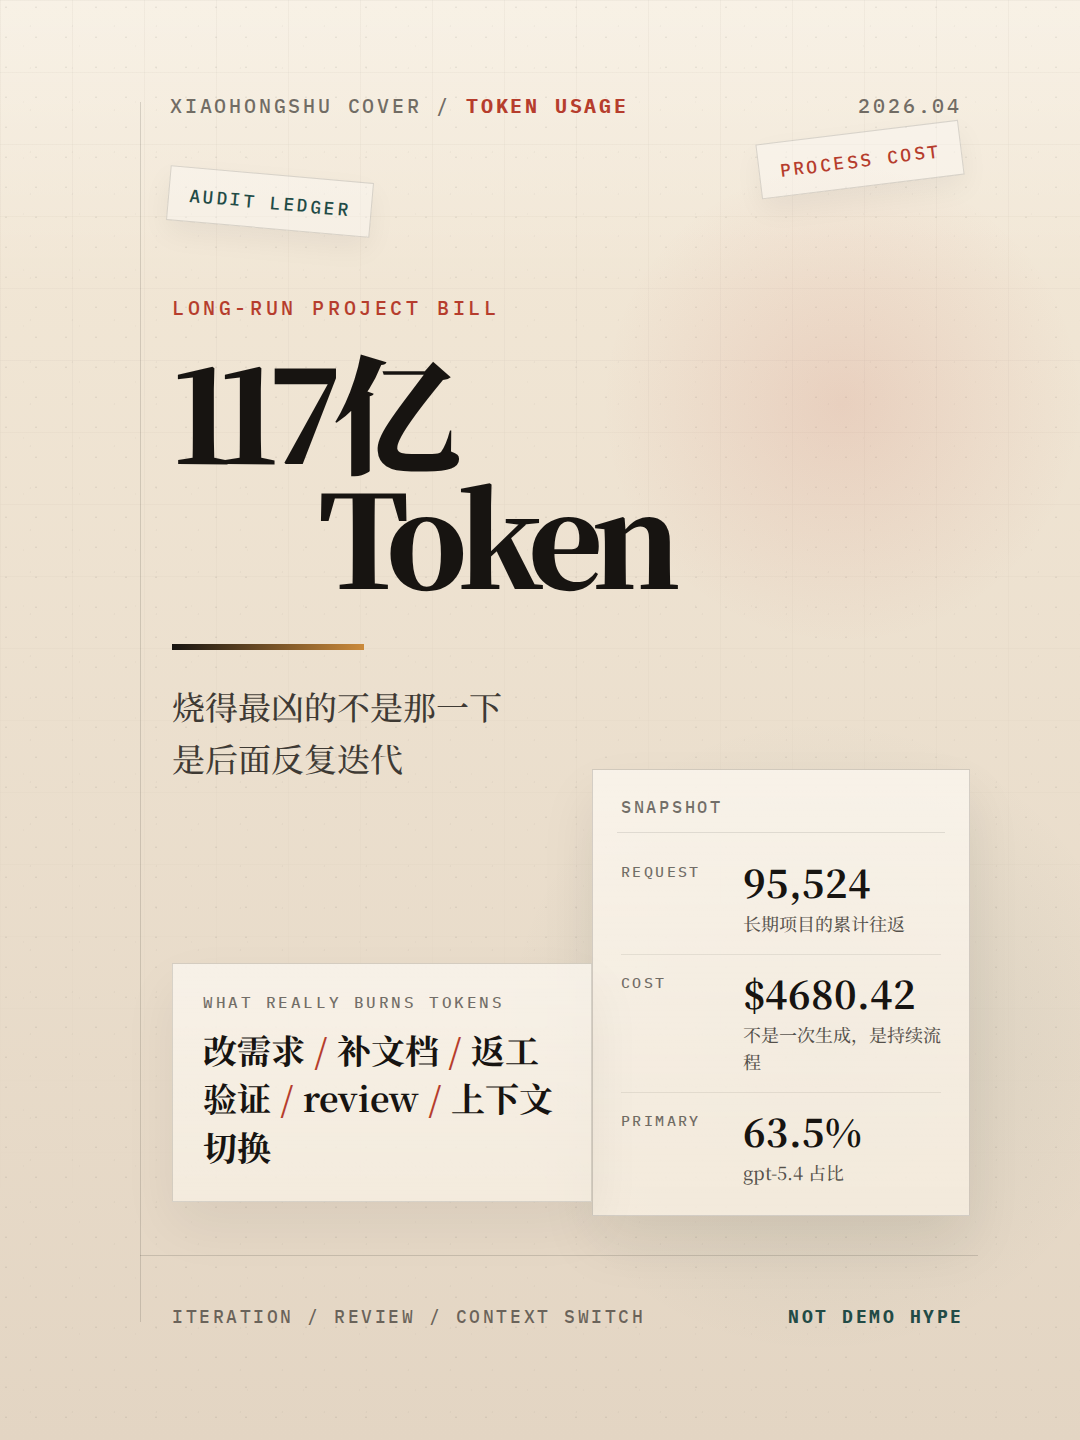
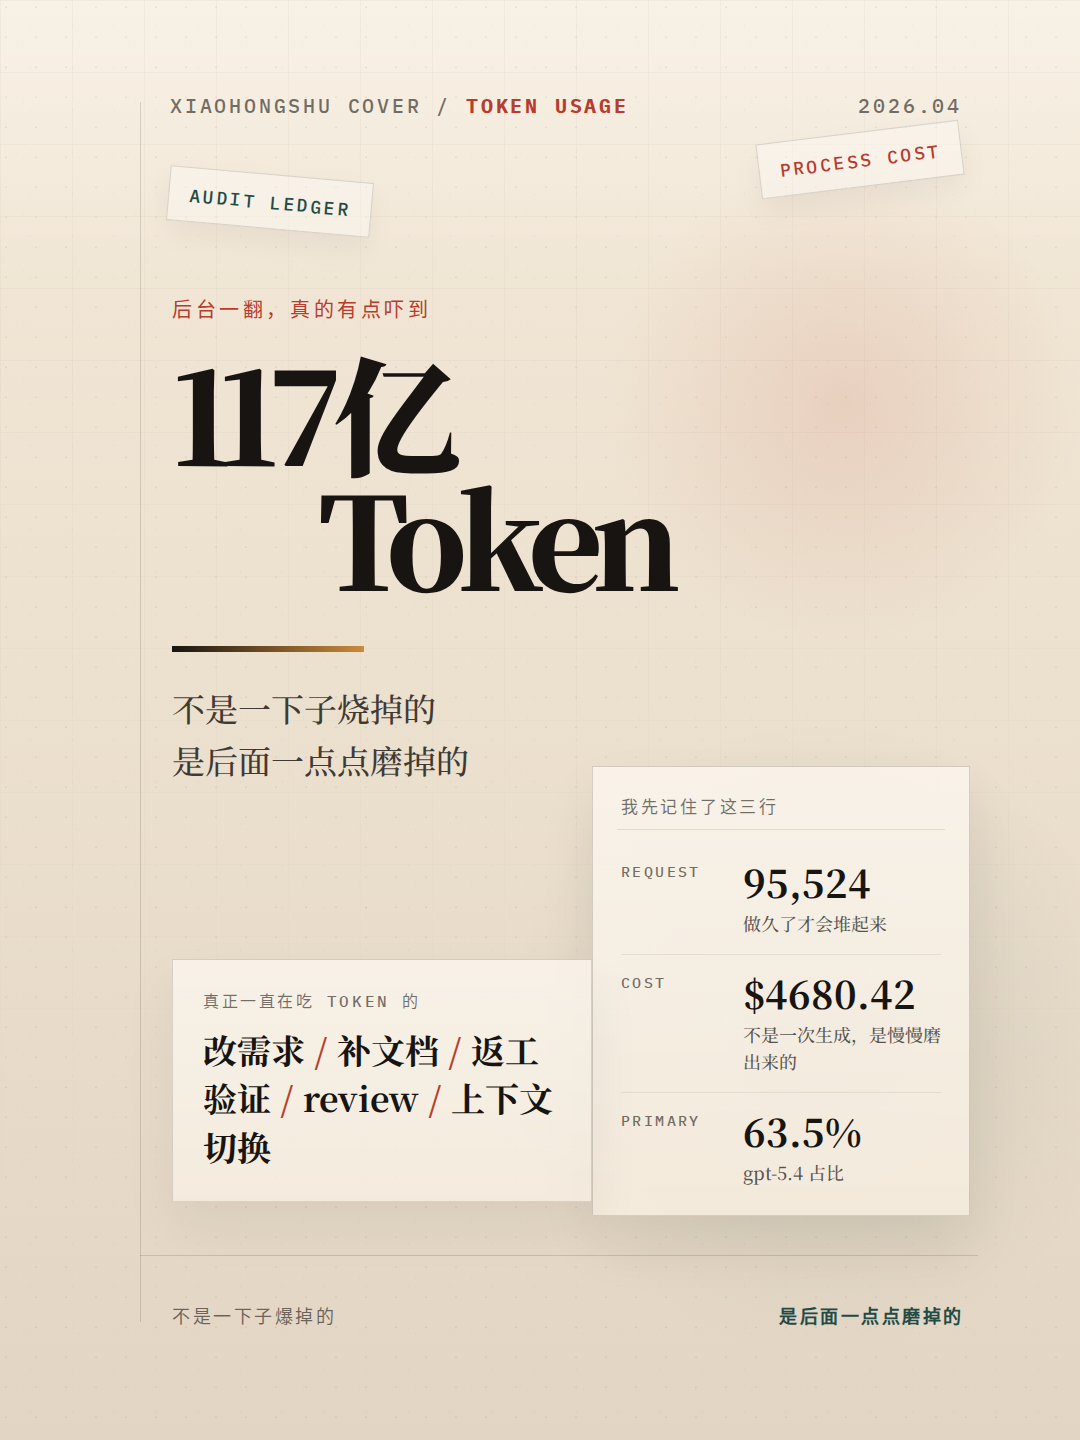
docs: humanize xiaohongshu token usage copy

diff --git a/site/social/xiaohongshu-token-usage-cover.html b/site/social/xiaohongshu-token-usage-cover.html
@@ -337,33 +337,33 @@
       </div>
 
       <section class="hero">
-        <p class="eyebrow">long-run project bill</p>
+        <p class="eyebrow">后台一翻，真的有点吓到</p>
         <h1>
           <span class="line">117亿</span>
           <span class="line shift">Token</span>
         </h1>
         <div class="divider"></div>
         <p class="subcopy">
-          烧得最凶的不是那一下
+          不是一下子烧掉的
           <br />
-          是后面反复迭代
+          是后面一点点磨掉的
         </p>
       </section>
 
       <aside class="board">
-        <p class="board-title">snapshot</p>
+        <p class="board-title">我先记住了这三行</p>
         <div class="metric">
           <div class="metric-label">request</div>
           <div>
             <div class="metric-value">95,524</div>
-            <span class="metric-note">长期项目的累计往返</span>
+            <span class="metric-note">做久了才会堆起来</span>
           </div>
         </div>
         <div class="metric">
           <div class="metric-label">cost</div>
           <div>
             <div class="metric-value">$4680.42</div>
-            <span class="metric-note">不是一次生成，是持续流程</span>
+            <span class="metric-note">不是一次生成，是慢慢磨出来的</span>
           </div>
         </div>
         <div class="metric">
@@ -376,7 +376,7 @@
       </aside>
 
       <section class="tagline">
-        <span class="label">what really burns tokens</span>
+        <span class="label">真正一直在吃 token 的</span>
         <strong>
           改需求<span class="accent"> / </span>补文档<span class="accent"> / </span>返工
           <br />
@@ -385,8 +385,8 @@
       </section>
 
       <div class="footer">
-        <span>iteration / review / context switch</span>
-        <span><strong>not demo hype</strong></span>
+        <span>不是一下子爆掉的</span>
+        <span><strong>是后面一点点磨掉的</strong></span>
       </div>
     </main>
   </body>

diff --git a/doc/readme/governance/readme-xiaohongshu-token-usage-post-pack-2026-04-20.md b/doc/readme/governance/readme-xiaohongshu-token-usage-post-pack-2026-04-20.md
@@ -49,33 +49,33 @@
 - 形式：`长文正文`
 - 推荐标题：
 ```text
-这个项目吃了117亿Token
+翻后台，发现项目跑了117亿Token
 ```
 - 备选标题：
 ```text
-做项目后，我开始重看Token账单
+后台一翻，117亿Token
 ```
 ```text
-真实项目里，Token都烧去哪了
+这个项目到底用了多少Token
 ```
 ```text
-AI进项目后，最贵的不是那一下
+做久了才知道Token烧在哪
 ```
 
 ## 正文建议
 ```text
-今天重新看项目后台，
-我自己都愣了一下。
+今天翻项目后台，
+我自己都吓了一下。
 
-这个项目做到现在，
-累计请求 95,524 次，
-累计 Token 11780.14M，
-差不多 117.8 亿，
-累计花费 $4680.42。
+这个项目到现在，
+已经累计 95,524 次请求，
+11780.14M Token，
+也就是差不多 117.8 亿，
+花了 $4680.42。
 
-拆开看更明显。
+里面的大头其实很明显。
 
-gpt-5.4 一共跑了 59,943 次，
+gpt-5.4 跑了 59,943 次，
 吃掉 7481.44M Token，
 花了 $3569.37，
 占了 63.5%。
@@ -86,18 +86,17 @@ gpt-5.3-codex 跑了 30,648 次，
 占了 32.4%。
 
 剩下那些模型，
-更多是在补位。
+基本就是补位。
 
-但这组数据最有意思的地方，
-其实不是“贵”。
+但我后来盯着这组数看了会儿，
+发现重点其实不是“贵不贵”。
 
-而是我越来越确定一件事：
-真实项目里，
+而是你把 AI 真放进一个长期项目里以后，
 最烧 Token 的，
-从来不是某一次看起来很猛的生成。
+真的不是某一次看起来很猛的输出。
 
-真正持续吃 Token 的，
-是后面这些每天都在发生的事：
+真正往里吃的，
+是后面那些很日常的东西：
 
 改需求，
 补文档，
@@ -105,74 +104,74 @@ gpt-5.3-codex 跑了 30,648 次，
 修 bug，
 跑验证，
 回 review，
-还有一轮一轮的上下文切换。
+还有不停地补上下文。
 
-你让 AI 真进研发流程以后，
-它就不再只是一个偶尔帮你吐答案的工具。
+就是这些事，
+一天天把 Token 慢慢吃掉了。
 
-它开始像团队里的正式成员。
+所以我现在的感觉挺直接的：
+AI 一旦不只是拿来玩两下，
+而是真的放进研发流程里，
+它就很像团队里的一个正式成员。
+
 只不过这个成员不拿月薪，
 按 Token 计费。
 
-所以现在回头看，
-我觉得项目里真正该优化的，
-不是“少问一句”这种表面节省。
+也是因为这样，
+我现在回头看这类账单，
+已经不太会先想“怎么少问一句”了。
 
-更关键的，
-是少一点无效上下文，
+更像是在想，
+怎么少一点无效上下文，
 少一点重复沟通，
-少一点已经做过一遍的来回返工。
+少一点已经做过一遍还得再来一遍的返工。
 
-因为项目周期一拉长，
-Token 就不只是模型指标了。
+因为项目做久了以后，
+Token 这东西就不只是个模型指标。
 
-它会慢慢变成一种很真实的研发资源消耗。
+它会慢慢变成很实在的研发成本。
 
 如果你也在长期用 AI 做项目，
-可以回头翻一次自己的后台。
+真的可以抽空翻一下后台。
 
-很多账，
-不拉出来看，
-真的没感觉。
+很多时候，
+不翻一眼，
+你根本不知道它到底是怎么一点点烧掉的。
 ```
 
 ## 更短版备选
 ```text
-今天翻项目后台，我自己都愣了一下。
+今天翻项目后台，我自己都吓了一下。
 
-这个项目做到现在，已经累计 95,524 次请求，吃掉 11780.14M Token，花了 $4680.42。
+这个项目到现在已经累计 95,524 次请求，吃掉 11780.14M Token，花了 $4680.42。
 
-但最有意思的不是“贵”，而是我越来越确定一件事：
-真实项目里，最烧 Token 的从来不是某一次看起来很猛的生成，而是后面持续发生的改需求、补文档、返工、验证、review 和上下文切换。
+但真正让我有感觉的，不是这个数字有多大。
+而是我发现，长期项目里最烧 Token 的，往往不是某一次特别猛的输出，而是后面那些改需求、补文档、返工、验证、review 和补上下文。
 
-AI 一旦真进项目，
-它就开始像团队里的正式成员。
-只不过这个成员不拿月薪，按 Token 计费。
-
-所以真正该优化的，
-不是少问一句，
-而是少一点无效上下文、重复沟通和低价值往返。
+所以现在我看这种账单，
+更在意的已经不是少问一句，
+而是怎么少一点无效往返。
 ```
 
 ## 评论区引导
 ```text
-如果让你先砍一块 AI 成本，你会先动上下文、流程，还是模型选择？
+如果让你先砍一块 AI 成本，你会先动哪一块？
 ```
 
 ## 最终可发 Caption
 - 2 句版：
 ```text
-今天翻项目后台，我自己都愣了一下：这个项目已经累计吃掉 11780.14M Token，花了 $4680.42。真把 AI 放进研发流程以后，最烧 Token 的往往不是某次“神回复”，而是改需求、补文档、返工、验证和上下文切换。
+今天翻项目后台，我自己都吓了一下：这个项目已经累计吃掉 11780.14M Token，花了 $4680.42。后来我发现，最烧 Token 的往往不是某次特别猛的输出，而是后面那些改需求、补文档、返工、验证和补上下文。
 ```
 - 4 句版：
 ```text
-今天重新看项目后台，我自己都愣了一下：这个项目做到现在，已经累计 95,524 次请求，吃掉 11780.14M Token，花了 $4680.42。
+今天翻项目后台，我自己都吓了一下：这个项目到现在，已经累计 95,524 次请求，吃掉 11780.14M Token，花了 $4680.42。
 
-但这组数据最有意思的地方，其实不是“贵”。
+但我后来盯着这组数看了会儿，发现重点其实不是“贵不贵”。
 
-真实项目里，最烧 Token 的从来不是某一次看起来很猛的生成，而是后面持续发生的改需求、补文档、返工、验证、review 和上下文切换。
+长期项目里，最烧 Token 的，往往不是某一次特别猛的输出，而是后面那些改需求、补文档、返工、验证、review 和补上下文。
 
-如果让你先砍一块 AI 成本，你会先动上下文、流程，还是模型选择？
+如果让你先砍一块 AI 成本，你会先动哪一块？
 ```
 - 使用建议：
   - 如果发正文长文，优先用 4 句版。
@@ -201,14 +200,14 @@ AI 一旦真进项目，
 
 ## 封面文案
 ```text
-117亿 Token
-烧在哪了
+后台一翻
+117亿Token
 ```
 
 ## 首图副文案
 ```text
-最贵的不是那一下
-是后面反复迭代
+不是一下子烧掉的
+是后面一点点磨掉的
 ```
 
 ## 封面与视觉建议

diff --git a/.pm/tasks/task_79a3b9140bb54e73984e9893485614e7.execution.md b/.pm/tasks/task_79a3b9140bb54e73984e9893485614e7.execution.md
@@ -19,3 +19,7 @@ Example:
 - 完成内容: 为第十四篇补齐单图封面 `site/social/xiaohongshu-token-usage-cover.html` 与导出图 `site/social/xiaohongshu-token-usage-cover.png`，视觉方向收口为 editorial audit board / cost ledger，避免滑向科技感炫图、币价看板或模型排行榜。
 - 完成内容: 已回写素材包、PRD 与项目追踪，把封面 HTML/PNG 纳入 `PRD-README-047` 范围；本轮验证通过 `file site/social/xiaohongshu-token-usage-cover.png`、`./scripts/doc-governance-check.sh` 与人工成图复看。
 - 遗留事项: 当前仍未制作轮播版；如后续需要多页卡片，应围绕同一账单/流程成本主题单独扩展。
+## 2026-04-21 00:12:00 CST / liveops_community
+- 完成内容: 按用户反馈把第十四篇正文、短版 caption、评论区引导和封面文案统一改成更口语化的分享口吻，弱化“结论式总结”和明显 AI 味，保留原始数据与“长期项目里 token 主要烧在反复迭代”这条事实主线。
+- 完成内容: 已重新导出 `site/social/xiaohongshu-token-usage-cover.png`，确认新版封面文案和分享式语气一致。
+- 遗留事项: 若后续还觉得口气偏重，优先继续减掉“判断句”，往更像个人随手记录的方向再压一版。